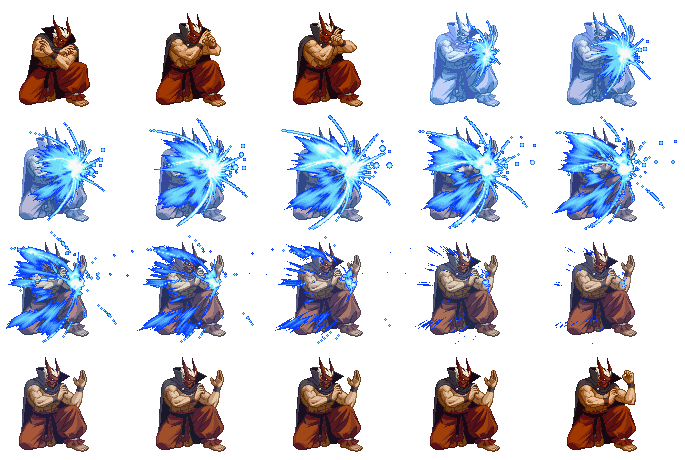
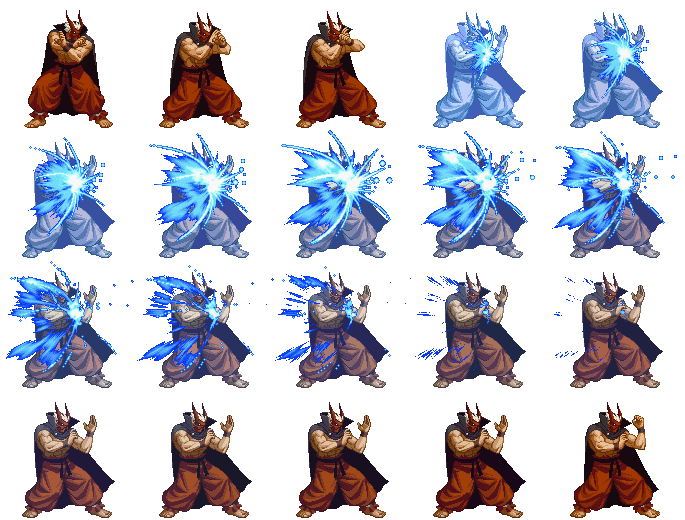
Pre-Alpha Canvas Launch

diff --git a/game.html b/game.html
@@ -24,7 +24,7 @@
     }
 </style>
 
-<body>
+<body onload="display()">
     <canvas id="canvas" width="800" height="600" style="border:1px solid #d3d3d3; "></canvas>
     <p style="text-align: center;" id="message">Welcome to MHTextBased please enter a name</p>
     <p style="text-align: center;" id="sMessage"></p>
@@ -44,8 +44,6 @@
     <div id="shop">
         <p id="stats"></p>
         <p id="itemsForSale"></p>
-        <img src="images/merchant.gif"
-            style=" position: absolute; margin-top: -450px; margin-left: 120px; width: 20%; height: 20%;">
         <select id="items">
 
         </select>
@@ -58,22 +56,20 @@
     const canvas = document.getElementById("canvas");
     const ctx = canvas.getContext("2d");
     let intervalId = ''
-
-    function Anim(width, height, src, loop, x, y, monster) {
-
-        if(monster != true){
-
+    let mInterval = ''
+    let merchantCheck = false;
+    let monsterDead = false;
+    function Anim(width, height, src, loop, x, y) {
             const player = new Image();
             player.src = src;
             const frameWidth = width;
             const frameHeight = height;
             
-            
             let currentXFrame = 0;
             let currentYFrame = 0;
            let loopAnim = setInterval(() => {
             // Clear the canvas
-            ctx.clearRect(x-1, y-1, width, height+100);
+            ctx.clearRect(x-1, y-1, width+20, height+100);
             
             // Draw the current frame
             ctx.drawImage(
@@ -109,12 +105,23 @@
             }
         }, 60);
         intervalId = loopAnim
-    } else {
-        let monsterimage = new Image()
-        monsterimage.src = src
-        ctx.drawImage(monsterimage, x, y, width, height)
         
     }
+
+    function monsterAnim(src, width, height, x, y) {
+        let monsterimage = new Image()
+        monsterimage.src = src
+      let interval =  setInterval(() => {
+            ctx.clearRect(x, y, width, height);
+            // Draw the current frame
+            ctx.drawImage(monsterimage, x, y, width, height)
+        if (monsterDead){
+            clearInterval(interval)
+            ctx.clearRect(x, y, width, height);
+        }
+                
+        }, 60);
+        mInterval = interval
     }
 </script>
 
@@ -128,9 +135,7 @@
         start.style.display = 'block'
         combat.style.display = 'none'
         shop.style.display = 'none'
-        Anim(91, 122, "images/grant-idle.png", true, 200, 350)
     }
-    document.onload = display()
 </script>
 
 <script>
@@ -138,7 +143,6 @@
     //used for transitioning scenes
     let gameEnd = false;
     let endLoop = false;
-
     //probability function used for all random chance events
     function probability(n) {
         return Math.random() < n;
@@ -240,7 +244,7 @@
 
         defend() {
             clearInterval(intervalId);
-           Anim(137, 115, "images/grant-block.png", false, 200, 360)
+           Anim(137, 130, "images/grant-block.png", false, 180, 340)
             let nextTurn = document.getElementById('nextTurn')
             let attackBut = document.getElementById('attack')
             let defendBut = document.getElementById('defend')
@@ -273,16 +277,20 @@
     }
     //used during monster hunts to initiate combat
     function combat() {
+        monsterDead = false
         if(     document.getElementById('startHunt')){
             document.getElementById('startHunt').remove()
-        }
-        Anim(100, 100, monster.src, false, 500, 370, true)
+            clearInterval(intervalId);
+            Anim(91, 122, "images/grant-idle.png", true, 200, 350)
+        } 
+            monsterAnim(monster.src, 170, 160, 470, 320)
+ 
         sMessage.innerHTML = ''
         let combat = document.getElementById('combat')
         let nextTurn = document.getElementById('nextTurn')
         let attackBut = document.getElementById('attack')
         let defendBut = document.getElementById('defend')
-        nextTurn.disabled = true
+        nextTurn.disabled = true;
         defendBut.disabled = false;
         attackBut.disabled = false;
         let status = document.getElementById('status')
@@ -298,6 +306,7 @@
             attackBut.disabled = true;
             defendBut.disabled = true;
             nextTurn.disabled = true;
+            monsterDead = true
             document.getElementById('combat').innerHTML +=
                 '<button id="toShop" onclick="postFight()" type="button">Continue...</button>'
             message.innerHTML = `${monster.name} has been hunted`;
@@ -306,6 +315,7 @@
             player.money += Math.floor(monster.value);
             endLoop = true;
             player.monstersKilled++
+            clearInterval(mInterval);
             ctx.clearRect(0, 0, canvas.width, canvas.height);
         } else if (player.hp <= 0) {
             alert('Game Over')
@@ -340,6 +350,7 @@
         let nextTurn = document.getElementById('nextTurn')
         let attackBut = document.getElementById('attack')
         let defendBut = document.getElementById('defend')
+        merchantCheck = false
         nextTurn.disabled = true;
         defendBut.disabled = true;
         attackBut.disabled = true;
@@ -372,6 +383,7 @@
                 monster.hp = 500
                 monster.armor = 0
                 monster.value = 100
+                monster.src = 'images/monsters/boss1.png'
                 storyEvent1 = true;
             } else {
                 monster.newMonster();
@@ -404,8 +416,8 @@
     //everything that happens after a hunt
     //include merchant, story scenes, and will include save states
     function postFight() {
+        merchantCheck = true
         canvas.style.backgroundImage = "";
-
         if (document.getElementById("toShop")) {
             document.getElementById("toShop").remove()
         }
@@ -424,7 +436,21 @@
         }
         //shop function
         function merchant() {
+            let merchImage = new Image()
+            merchImage.src = 'images/merchant.gif'
             //resets player hp
+           let merchAnim = setInterval(() => {
+            // Clear the canvas
+            ctx.clearRect(320, 320, merchImage.width, merchImage.height);
+            // Draw the current frame
+            ctx.drawImage(merchImage,380, 320, 230, 200)
+            if(merchantCheck == false){
+            clearInterval(merchAnim)
+            ctx.clearRect(380, 320, 230, 200);
+        }
+        }, 60);
+    
+
             player.hp = player.maxHP;
             let start = document.getElementById('gameStart')
             let combat = document.getElementById('combat')
